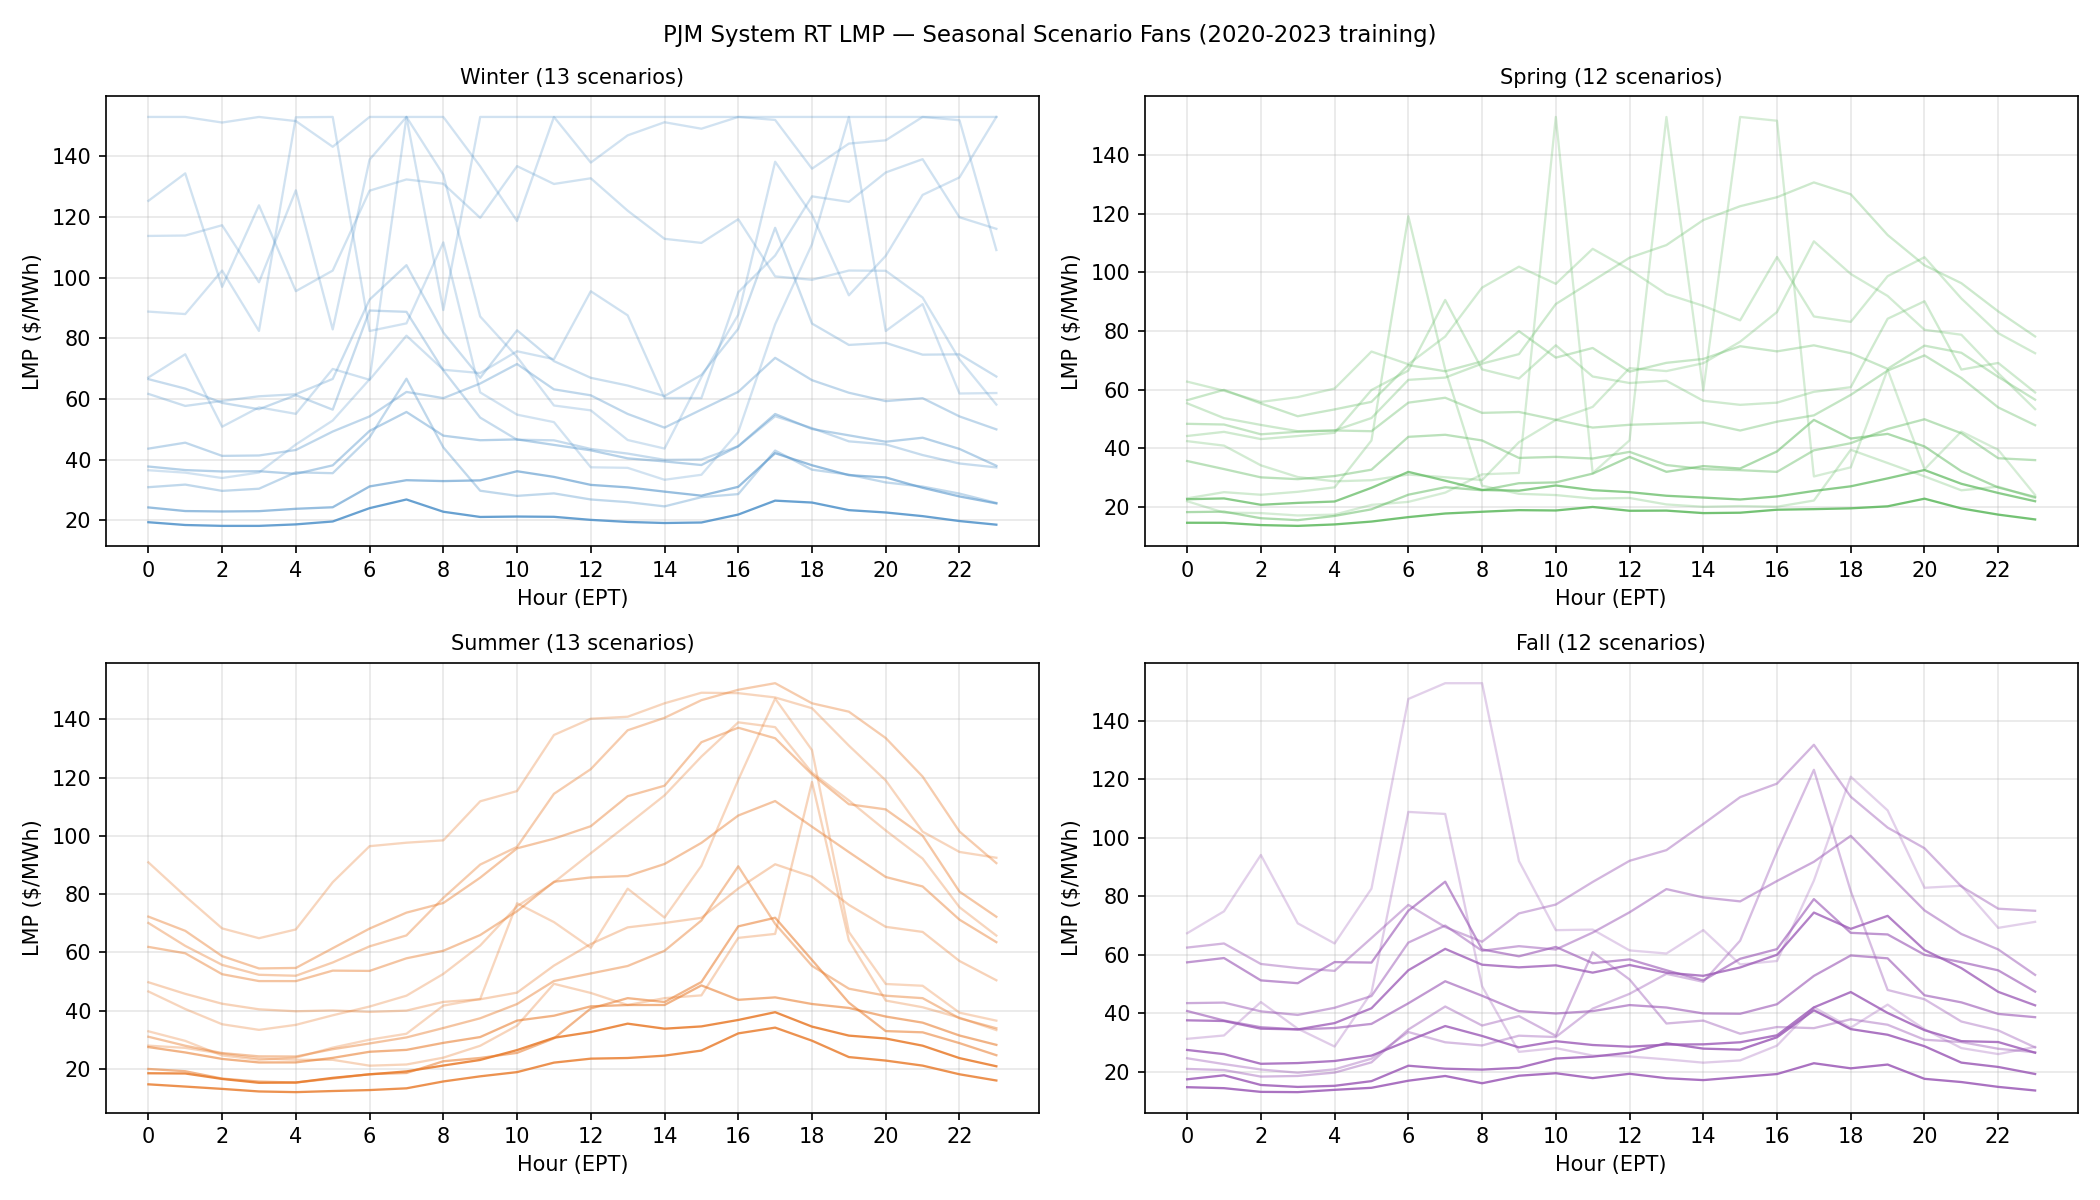
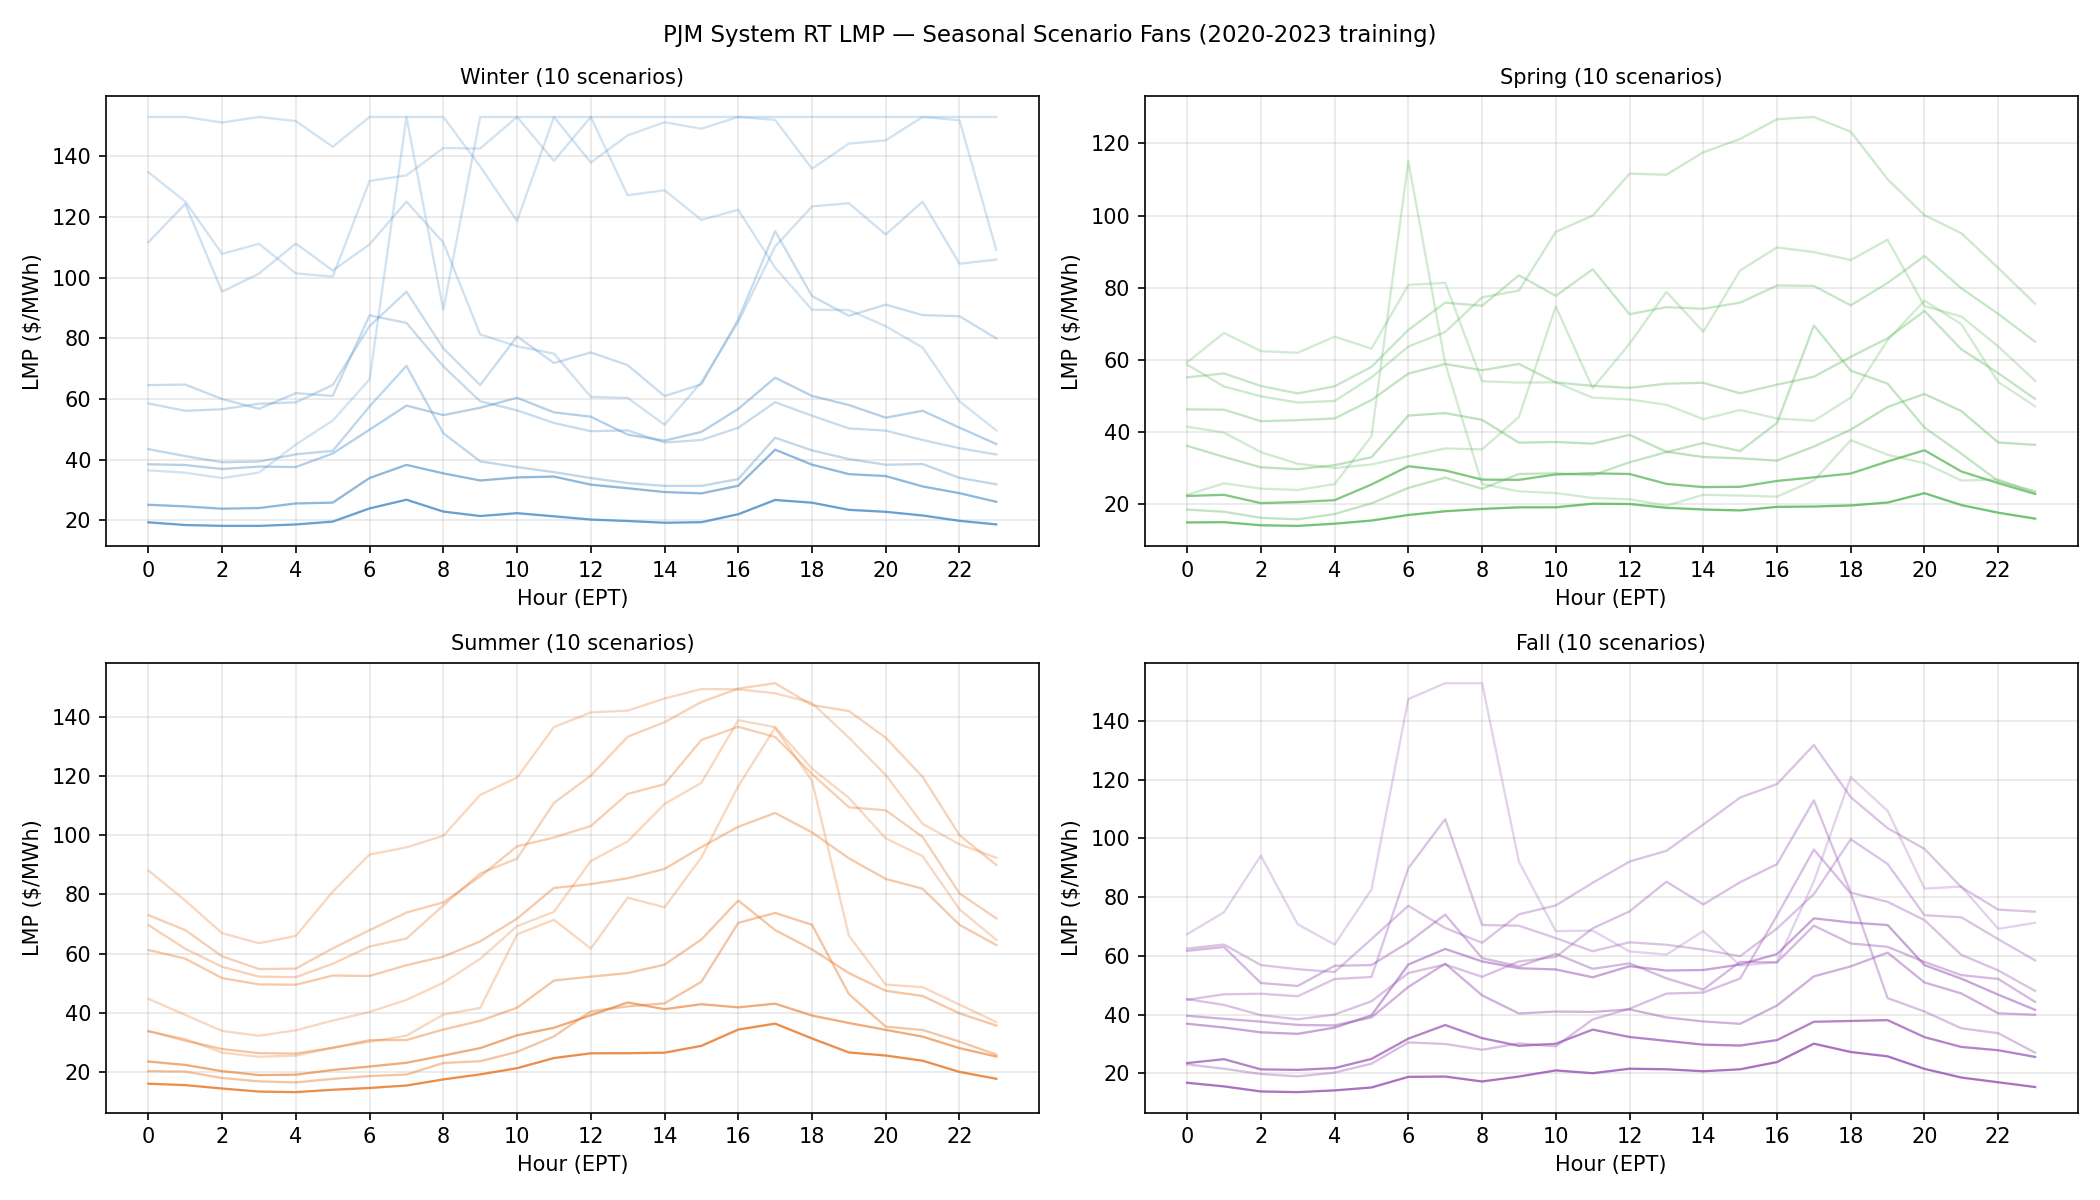
Reduce to 10 scenarios per season (40 total)

diff --git a/scripts/generate_scenarios.py b/scripts/generate_scenarios.py
@@ -32,10 +32,10 @@ TRAIN_END   = "2023-12-31"
 RANDOM_SEED = 42
 
 SEASON_CONFIG = {
-    "winter": {"months": [12, 1, 2],  "n": 13, "color": "#4e91c9"},
-    "spring": {"months": [3,  4, 5],  "n": 12, "color": "#5cb85c"},
-    "summer": {"months": [6,  7, 8],  "n": 13, "color": "#e87a2a"},
-    "fall":   {"months": [9, 10, 11], "n": 12, "color": "#9b59b6"},
+    "winter": {"months": [12, 1, 2],  "n": 10, "color": "#4e91c9"},
+    "spring": {"months": [3,  4, 5],  "n": 10, "color": "#5cb85c"},
+    "summer": {"months": [6,  7, 8],  "n": 10, "color": "#e87a2a"},
+    "fall":   {"months": [9, 10, 11], "n": 10, "color": "#9b59b6"},
 }
 
 # ── 1. Load ───────────────────────────────────────────────────────────────────
@@ -149,7 +149,7 @@ log = pd.DataFrame([{
     "p01_clip":         round(p01, 4),
     "p99_clip":         round(p99, 4),
     "complete_days":    total_days,
-    "n_scenarios":      50,
+    "n_scenarios":      sum(cfg["n"] for cfg in SEASON_CONFIG.values()),
     "train_end":        TRAIN_END,
     "method":           "season-stratified k-means",
 }])
@@ -159,13 +159,14 @@ log.to_csv(os.path.join(OUT_DIR, "cleaning_log.csv"), index=False)
 hours  = np.arange(24)
 season_list = list(SEASON_CONFIG.keys())
 
-fig, axes = plt.subplots(4, 13, figsize=(26, 12), sharey=False)
+max_n = max(cfg["n"] for cfg in SEASON_CONFIG.values())
+fig, axes = plt.subplots(4, max_n, figsize=(20, 12), sharey=False)
 
 for s_idx, season in enumerate(season_list):
     cfg      = SEASON_CONFIG[season]
     s_rows   = scen_df[scen_df["season"] == season].reset_index(drop=True)
     n_clust  = cfg["n"]
-    for i in range(13):
+    for i in range(max_n):
         ax = axes[s_idx, i]
         if i < n_clust:
             row = s_rows.iloc[i]
